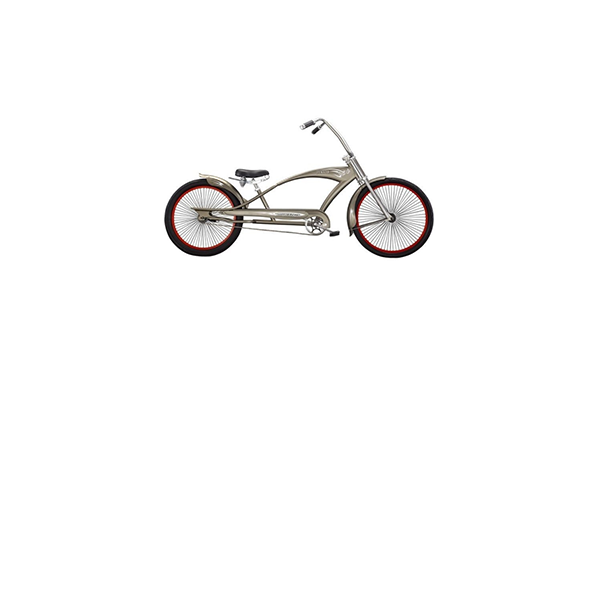
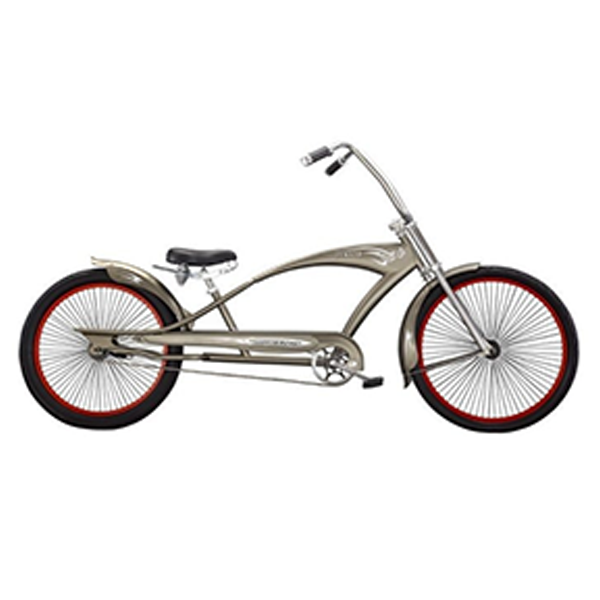
1

Changed region(s): [[0.03, 0.18, 0.99, 0.75]]

diff --git a/source/sass/components/index/bikes.scss b/source/sass/components/index/bikes.scss
@@ -42,7 +42,6 @@
   display: flex;
   flex-direction: column;
   align-items: center;
-  justify-content: flex-end;
   background-color: #e9e1d5;
   height: 348px;
   margin-bottom: 69px;
@@ -61,13 +60,14 @@
   .link {
     height: 178px;
     display: flex;
+    box-sizing: border-box;
     align-items: center;
-    justify-content: center;
 
     img {
       position: relative;
       z-index: 1;
       max-width: 100%;
+      object-fit: cover;
       height: auto;
       mix-blend-mode: multiply;
     }

diff --git a/source/sass/global/header.scss b/source/sass/global/header.scss
@@ -146,6 +146,8 @@
   right: 14px;
   padding: 0;
   margin: 0;
+  background-color: transparent;
+  border: none;
 }
 
 .header__logo {
